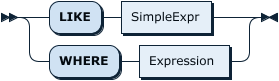
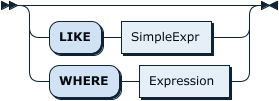
fix diagram

diff --git a/sql-statements/sql-statement-show-tables.md b/sql-statements/sql-statement-show-tables.md
@@ -17,6 +17,9 @@ aliases: ['/docs-cn/dev/reference/sql/statements/show-tables/']
 
 ![ShowTablesStmt](/media/sqlgram/ShowTablesStmt.png)
 
+**OptFull:**
+![OptFull](/media/sqlgram/OptFull.png)
+
 **ShowDatabaseNameOpt:**
 
 ![ShowDatabaseNameOpt](/media/sqlgram/ShowDatabaseNameOpt.png)

diff --git a/sql-statements/sql-statement-show-indexes.md b/sql-statements/sql-statement-show-indexes.md
@@ -27,6 +27,10 @@ aliases: ['/docs-cn/dev/reference/sql/statements/show-indexes/']
 
 ![TableName](/media/sqlgram/TableName.png)
 
+**ShowLikeOrWhereOpt:**
+
+![ShowLikeOrWhereOpt](/media/sqlgram/ShowLikeOrWhereOpt.png)
+
 ## 示例
 
 {{< copyable "sql" >}}
